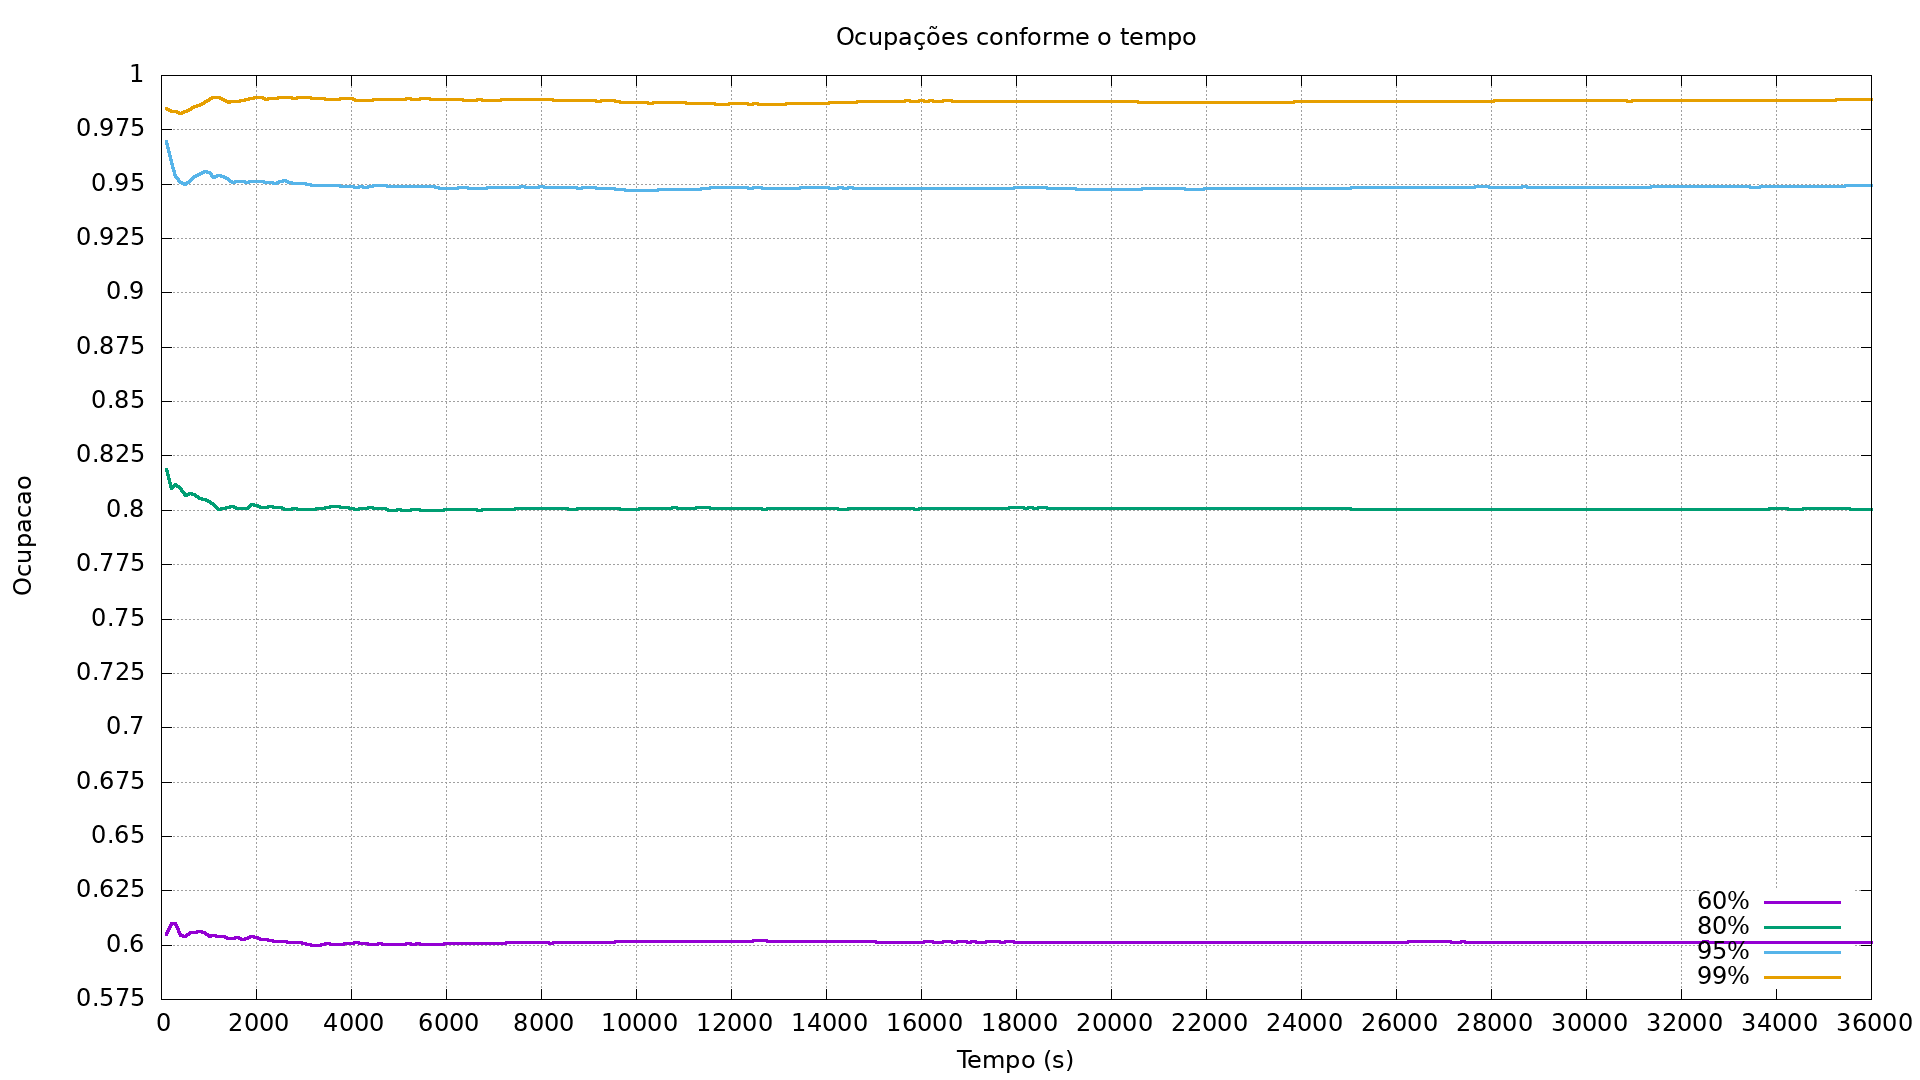
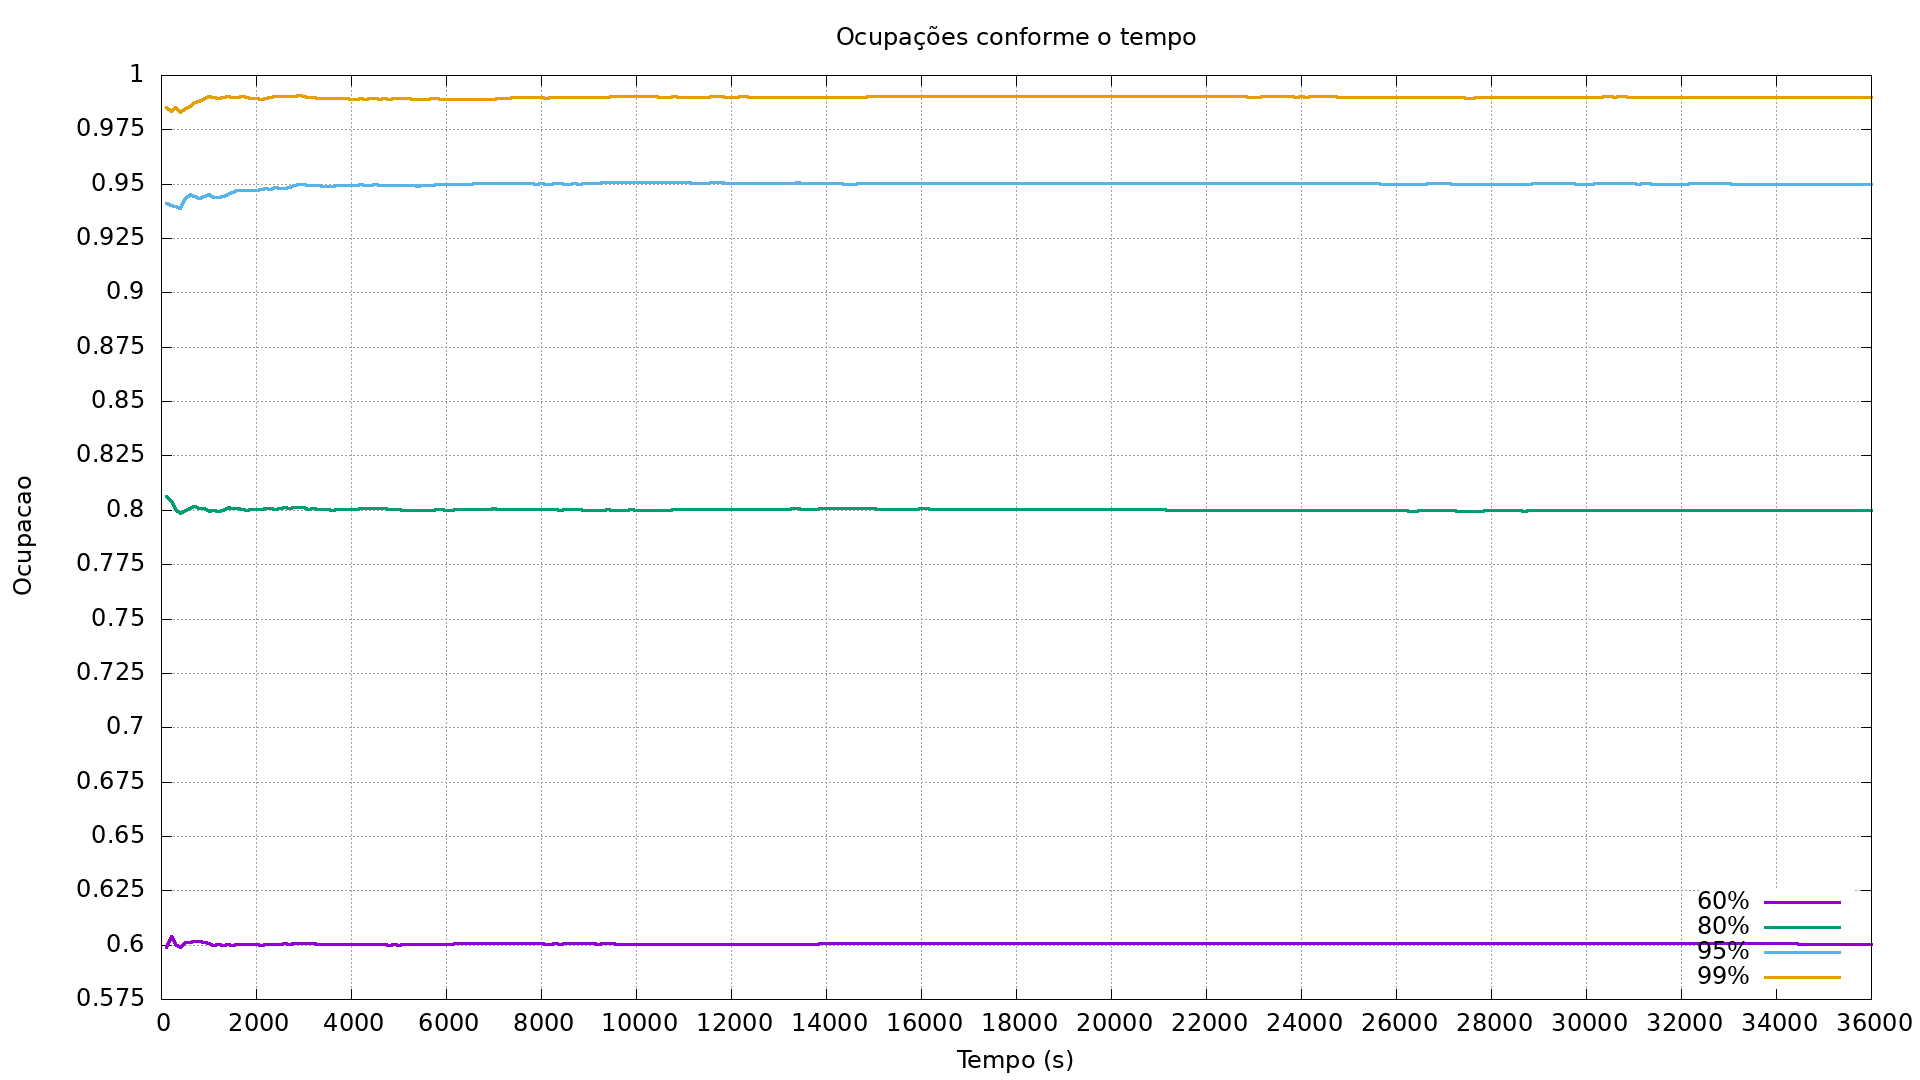
refactor: serviço como soma conforme email

diff --git a/Simulador 2 - Parte 1/simulacao.c b/Simulador 2 - Parte 1/simulacao.c
@@ -215,7 +215,7 @@ void resolve(float percentual_calculado, grafico *grafico)
                     atraso_transmissao = L/link[3];
                 }
 
-                servico = tempo_decorrido + (-1.0 / (1.0 / tempo_medio_servico)) * log_aleatorio + atraso_transmissao;
+                servico = tempo_decorrido + tempo_medio_servico + atraso_transmissao;
 
                 soma_tempo_servico += servico - tempo_decorrido;
             }
@@ -256,7 +256,7 @@ void resolve(float percentual_calculado, grafico *grafico)
                     atraso_transmissao = L/link[3];
                 }
 
-                servico = tempo_decorrido + (-1.0 / (1.0 / tempo_medio_servico)) * log_aleatorio + atraso_transmissao;
+                servico = tempo_decorrido + tempo_medio_servico + atraso_transmissao;
 
                 soma_tempo_servico += servico - tempo_decorrido;
             }
